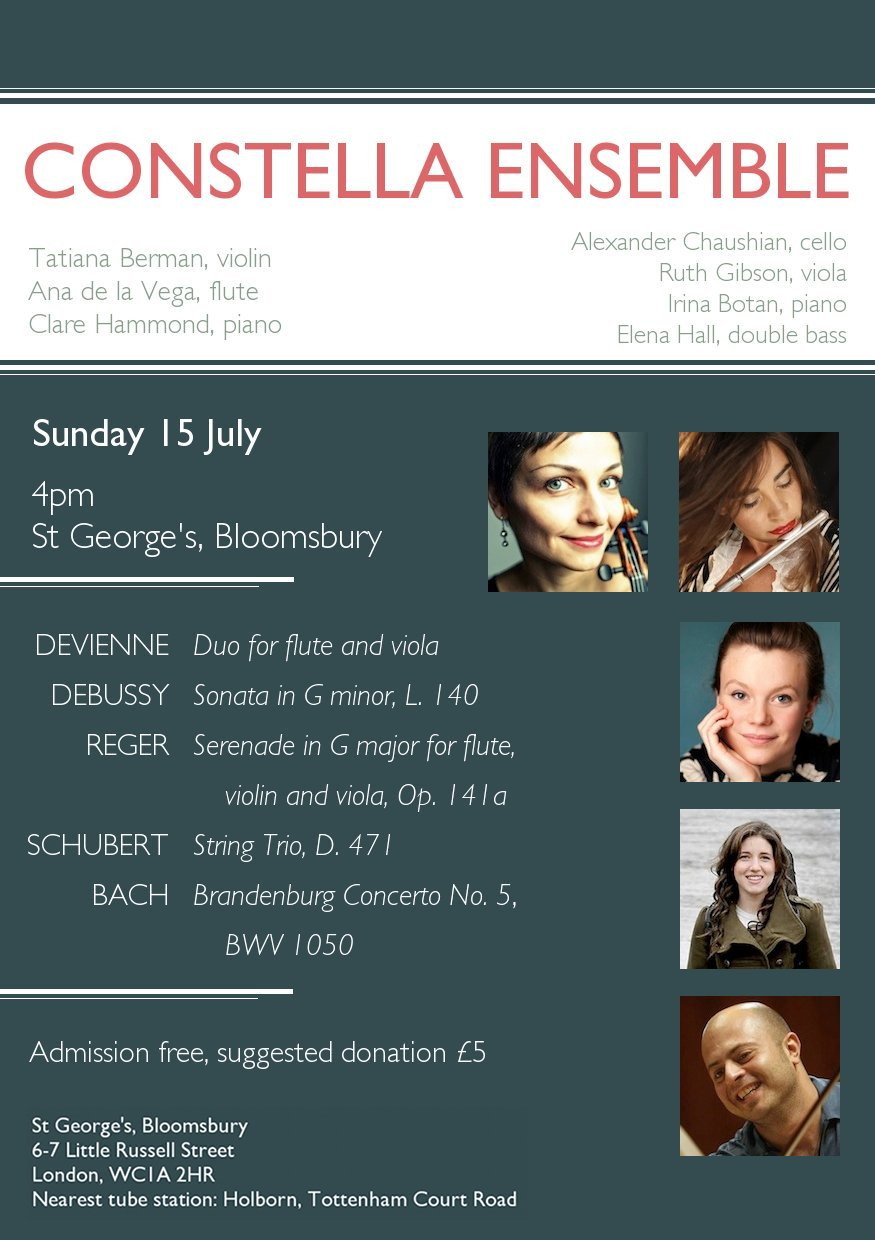
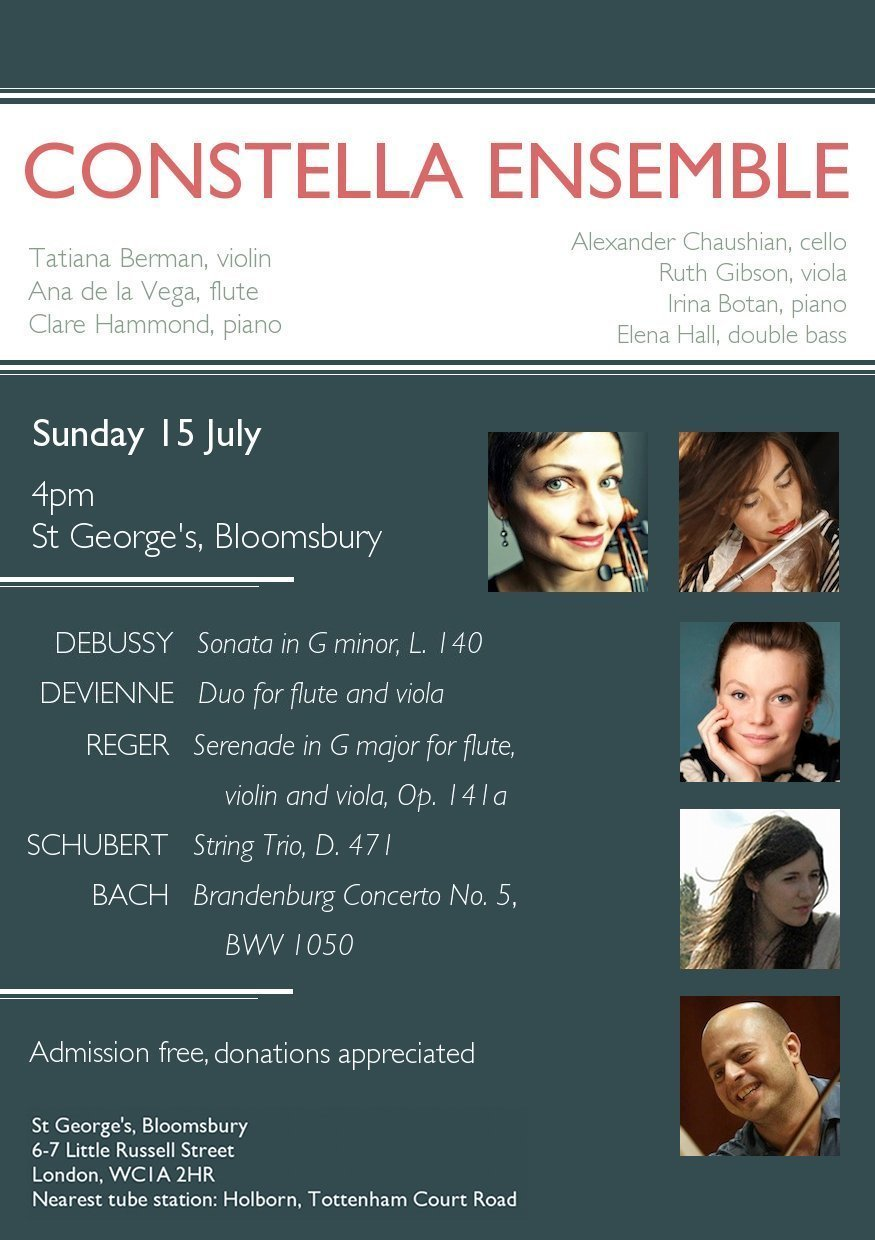
new 10 and 15 july flyers

diff --git a/concerts.html b/concerts.html
@@ -175,6 +175,7 @@ image: concerts.jpg
   </div>
   <div class="listing-details concealed">
     <p>Free entry</p>
+    <p>View flyer <a href="resources/dounia_flyer_4.jpg" target="_blank">here</a>.</p>
     <p>1pm, St Stephen Walbrook, 39 Walbrook EC4N 8BN</p>
   </div>
   <span class="more">&#9662; <a href="">More</a></span>
@@ -209,7 +210,7 @@ image: concerts.jpg
     <p>Bach - Brandenburg Concerto No. 5 in D major, BWV 1050</p>
   </div>
   <div class="listing-details concealed">
-    <p>Free entry, suggested donation £5.</p>
+    <p>Free entry, donations appreciated.</p>
     <p>View flyer <a href="resources/dounia_flyer_3.jpg" target="_blank">here</a>.</p>
     <p>4pm, St George's Bloomsbury, 6-7 Little Russell St WC1A 2HR</p>
   </div>
